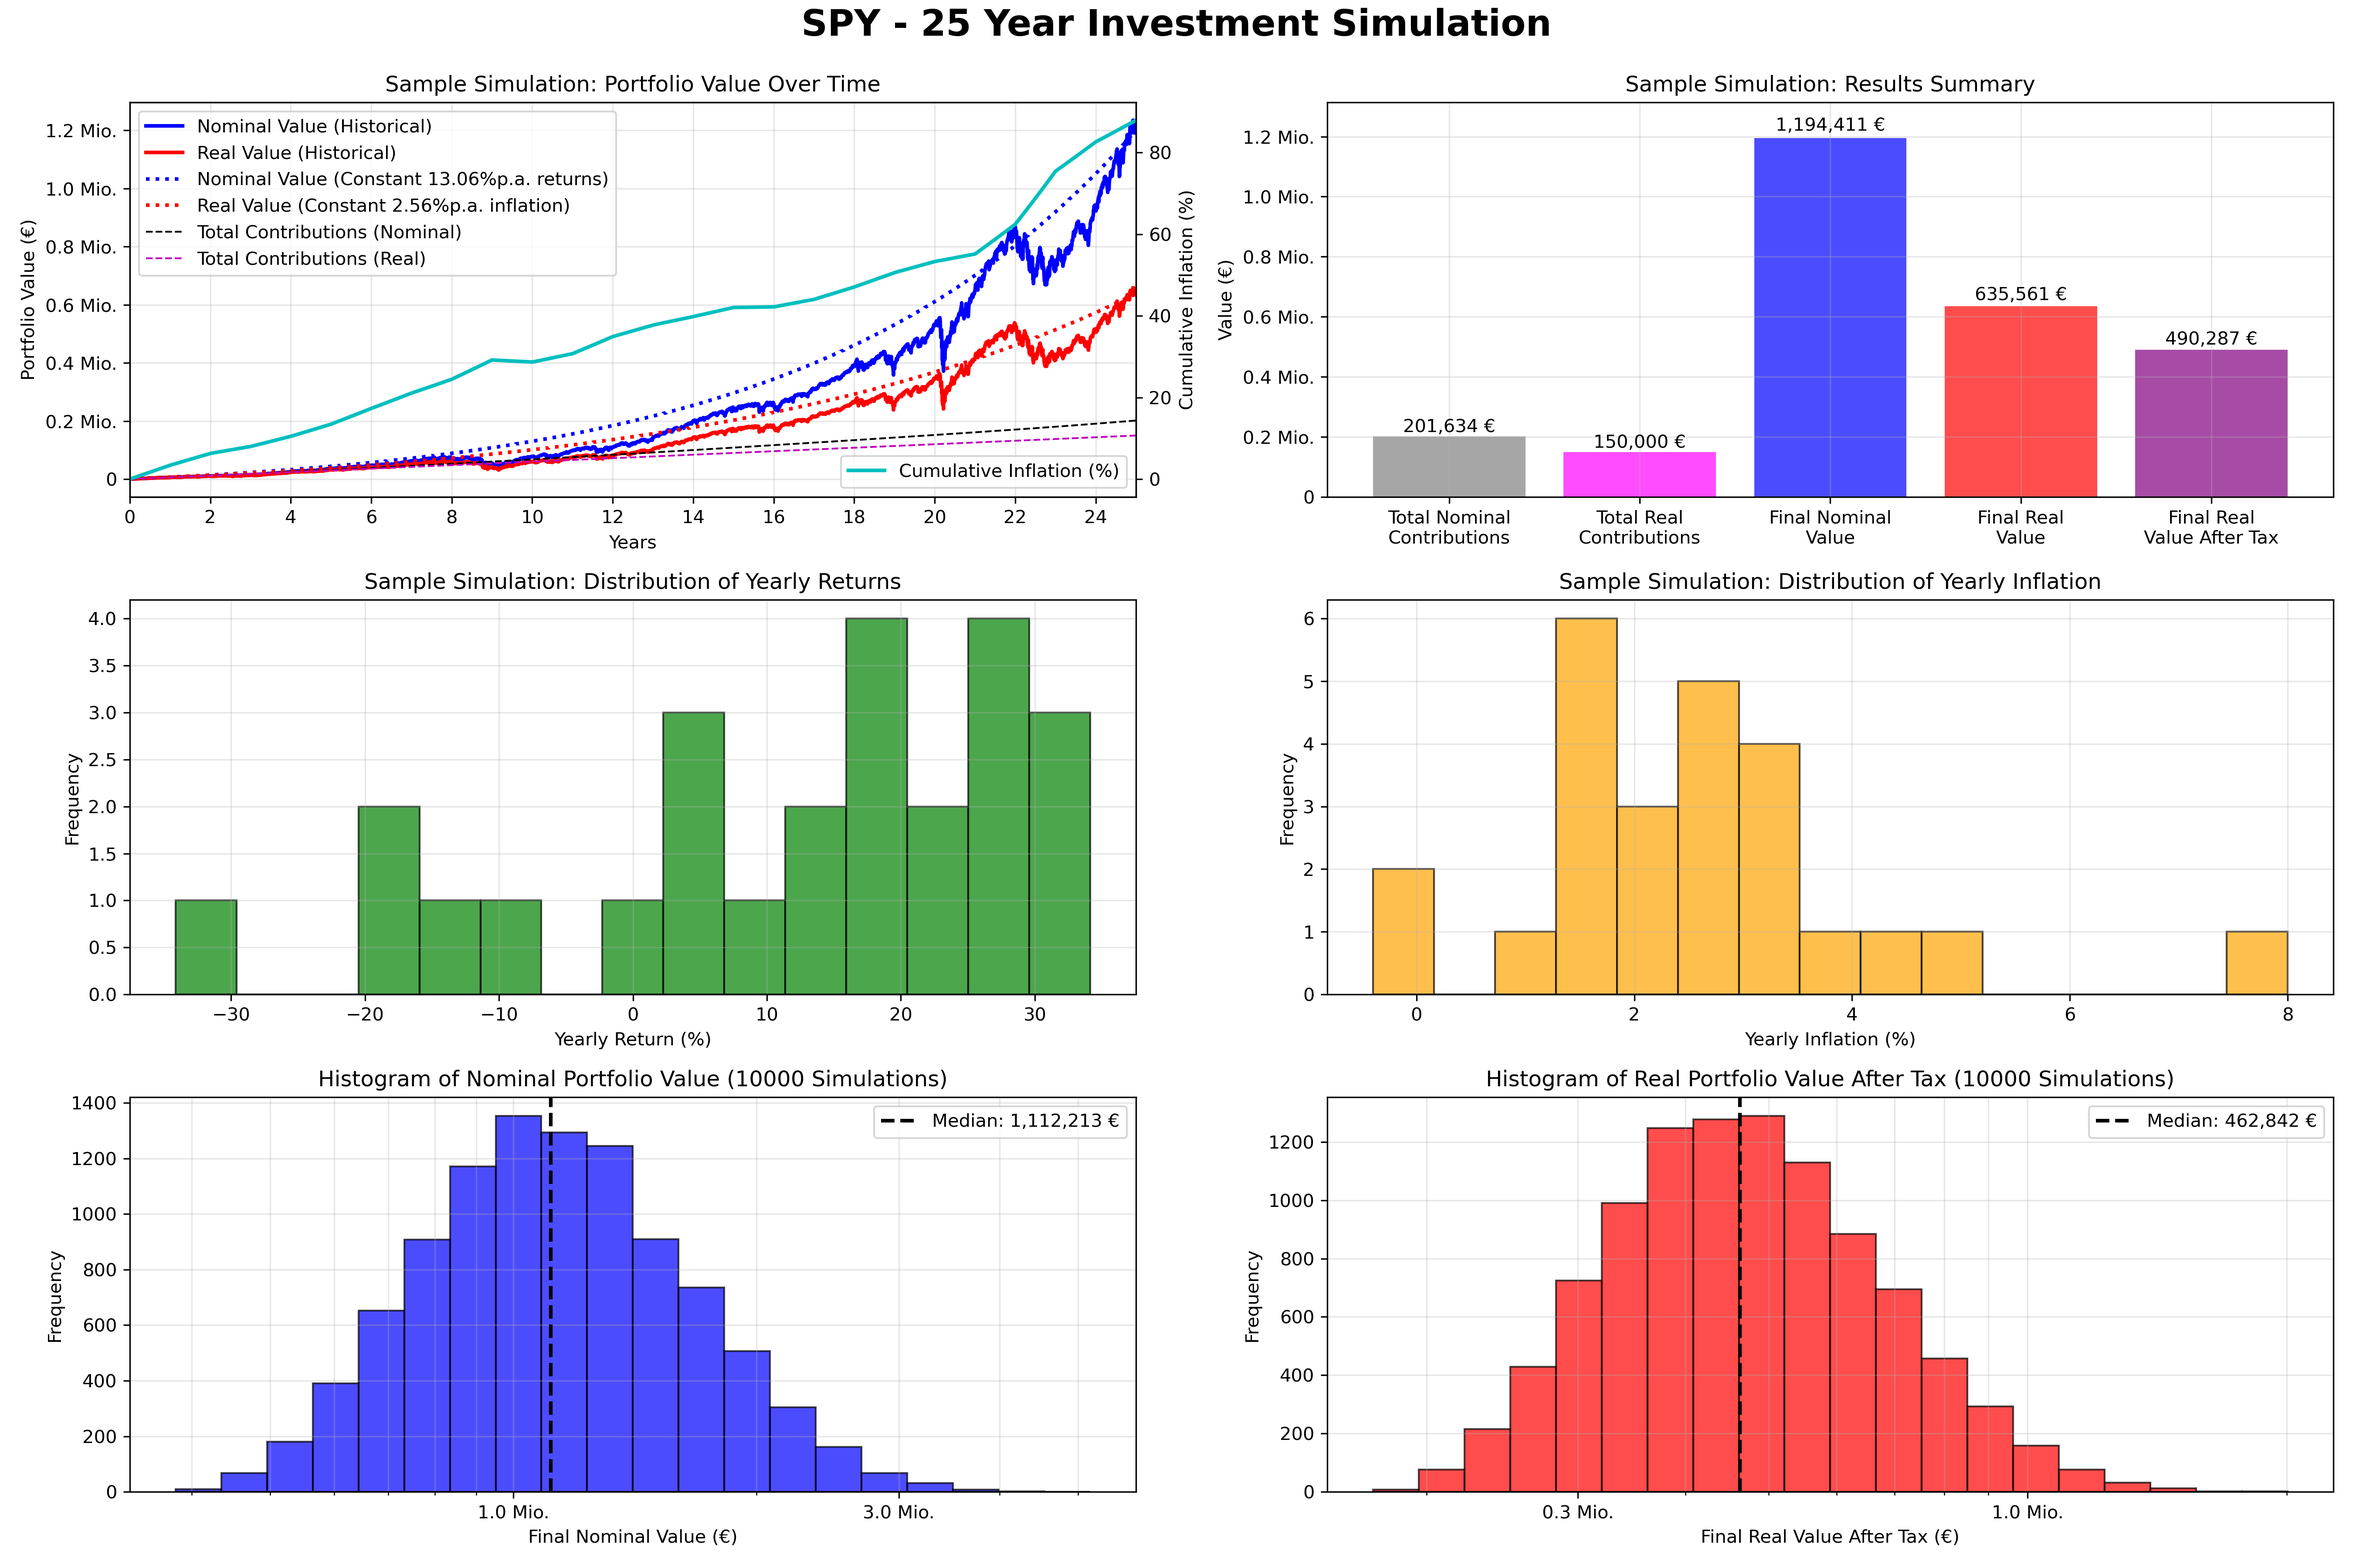
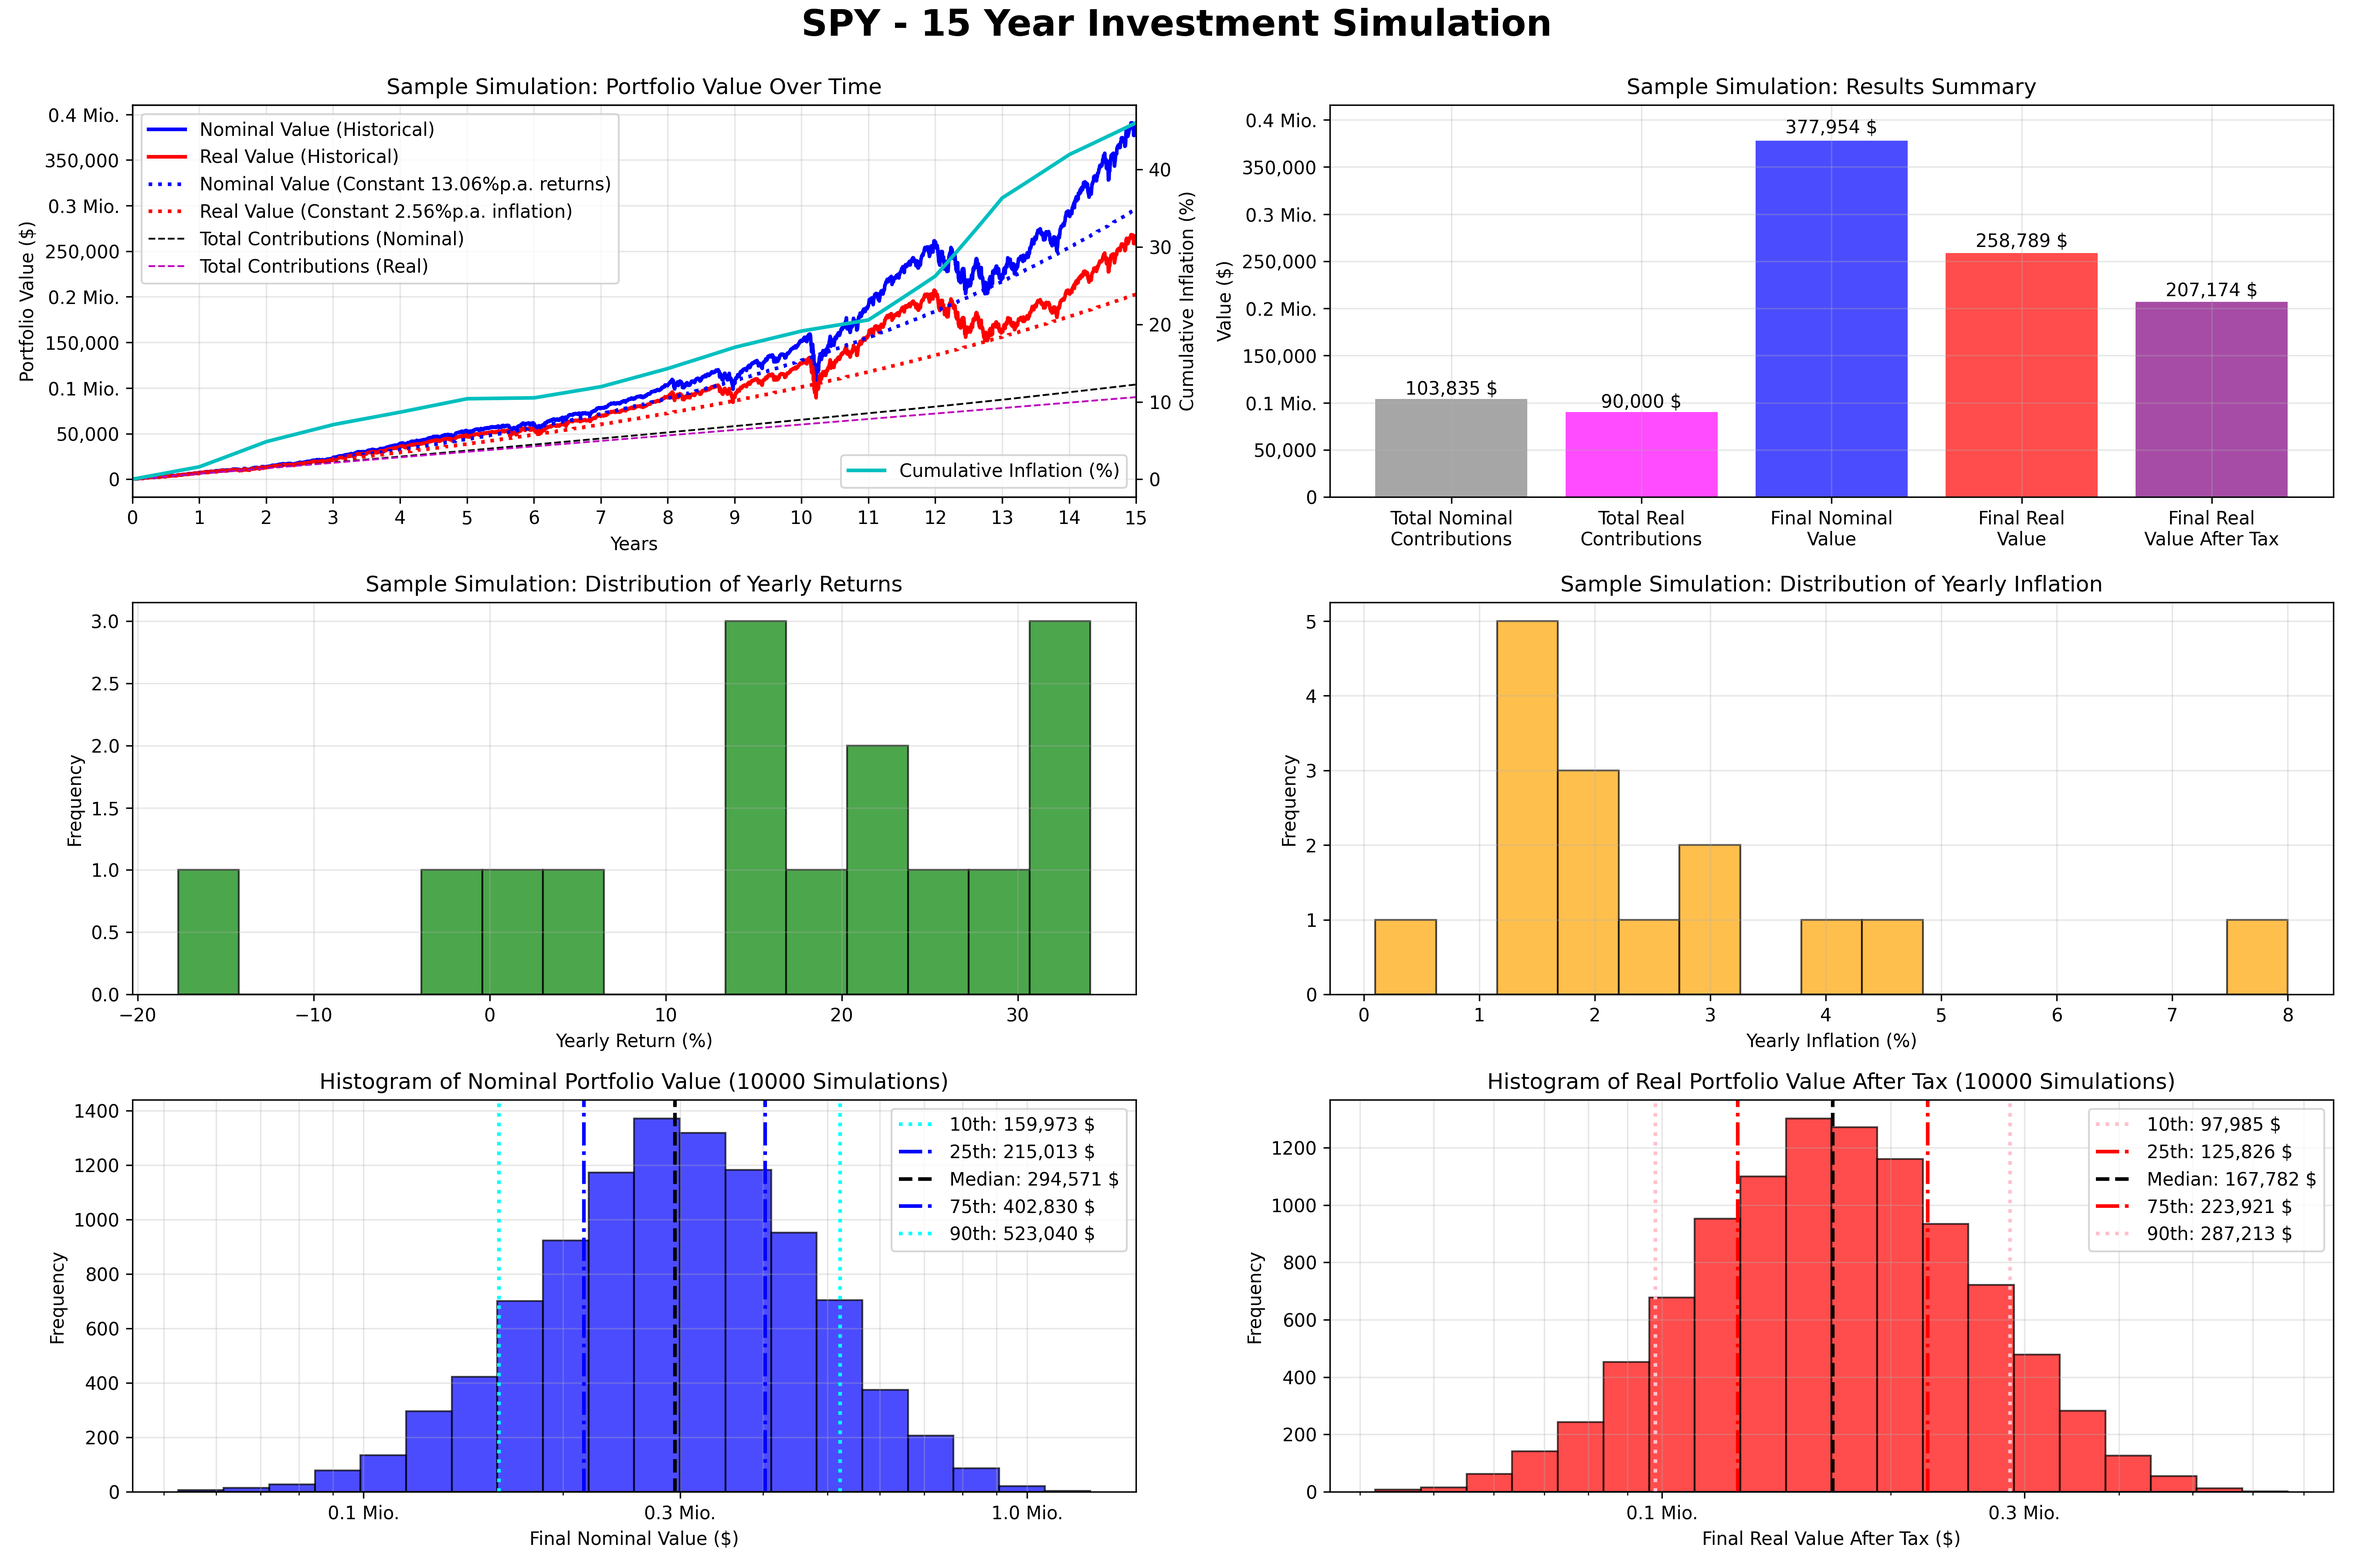
Bug Fix

diff --git a/run.py b/run.py
@@ -44,11 +44,11 @@ ticker_symbol = 'SPY'  # Ticker symbol from yfinance (any works, here are some e
 #   GC=F for Gold future contracts since 1974
 #   BTC-USD for Bitcoin since 2014
 
-years = 25 # Investment period
+years = 15 # Investment period
 starting_sum = 0 # In $
 monthly_contribution = 500  # In $
 capital_gains_tax = 27.5 # In percent
-simulation_iteration = 1000 # Number of simulation iterations (reduce for faster results, increase for smoother results)
+simulation_iteration = int(1e4) # Number of simulation iterations (reduce for faster results, increase for smoother results)
 increase_contribution_with_inflation = True # Simulate salary (and thus contribution) increasing with inflation?
 
 use_constant_returns = False # If True, uses constant returns/inflation, otherwise uses synthetic or historical data
@@ -176,7 +176,7 @@ def run_investment_simulation(use_constant_returns, use_synthetic_data, ticker_y
                 print(f"Not enough data in {ticker_symbol}: {years} years required, only {len(available_years)} years available.")
                 exit(1)
         if scramble_for_sample:
-            chosen_years = np.random.choice(available_years, years, replace=False)
+            chosen_years = np.random.choice(available_years, years, replace=True)
         else:
             chosen_years = sorted(available_years)[-years:]
         daily_returns = []
@@ -495,7 +495,15 @@ formatter = FuncFormatter(custom_log_formatter)
 ax.xaxis.set_major_formatter(formatter)
 ax.xaxis.set_minor_formatter(FuncFormatter(lambda x, pos: ''))
 median_nominal = np.median(nominal_results) #/ 1e6
+percentile_10_nominal = np.percentile(nominal_results, 10)
+percentile_25_nominal = np.percentile(nominal_results, 25)
+percentile_75_nominal = np.percentile(nominal_results, 75)
+percentile_90_nominal = np.percentile(nominal_results, 90)
+ax.axvline(percentile_10_nominal, color='cyan', linestyle=':', linewidth=2, label=f'10th: {percentile_10_nominal:,.0f} $')
+ax.axvline(percentile_25_nominal, color='blue', linestyle='-.', linewidth=2, label=f'25th: {percentile_25_nominal:,.0f} $')
 ax.axvline(median_nominal, color='black', linestyle='--', linewidth=2, label=f'Median: {median_nominal:,.0f} $')
+ax.axvline(percentile_75_nominal, color='blue', linestyle='-.', linewidth=2, label=f'75th: {percentile_75_nominal:,.0f} $')
+ax.axvline(percentile_90_nominal, color='cyan', linestyle=':', linewidth=2, label=f'90th: {percentile_90_nominal:,.0f} $')
 ax.set_title(f'Histogram of Nominal Portfolio Value ({simulation_iteration} Simulations)')
 ax.set_xlabel('Final Nominal Value ($)')
 ax.set_ylabel('Frequency')
@@ -522,7 +530,15 @@ formatter = FuncFormatter(custom_log_formatter)
 ax.xaxis.set_major_formatter(formatter)
 ax.xaxis.set_minor_formatter(FuncFormatter(lambda x, pos: ''))
 median_real_after_tax = np.median(real_after_tax_results) #/ 1e6
+percentile_10_real = np.percentile(real_after_tax_results, 10)
+percentile_25_real = np.percentile(real_after_tax_results, 25)
+percentile_75_real = np.percentile(real_after_tax_results, 75)
+percentile_90_real = np.percentile(real_after_tax_results, 90)
+ax.axvline(percentile_10_real, color='pink', linestyle=':', linewidth=2, label=f'10th: {percentile_10_real:,.0f} $')
+ax.axvline(percentile_25_real, color='red', linestyle='-.', linewidth=2, label=f'25th: {percentile_25_real:,.0f} $')
 ax.axvline(median_real_after_tax, color='black', linestyle='--', linewidth=2, label=f'Median: {median_real_after_tax:,.0f} $')
+ax.axvline(percentile_75_real, color='red', linestyle='-.', linewidth=2, label=f'75th: {percentile_75_real:,.0f} $')
+ax.axvline(percentile_90_real, color='pink', linestyle=':', linewidth=2, label=f'90th: {percentile_90_real:,.0f} $')
 ax.set_title(f'Histogram of Real Portfolio Value After Tax ({simulation_iteration} Simulations)')
 ax.set_xlabel('Final Real Value After Tax ($)')
 ax.set_ylabel('Frequency')
